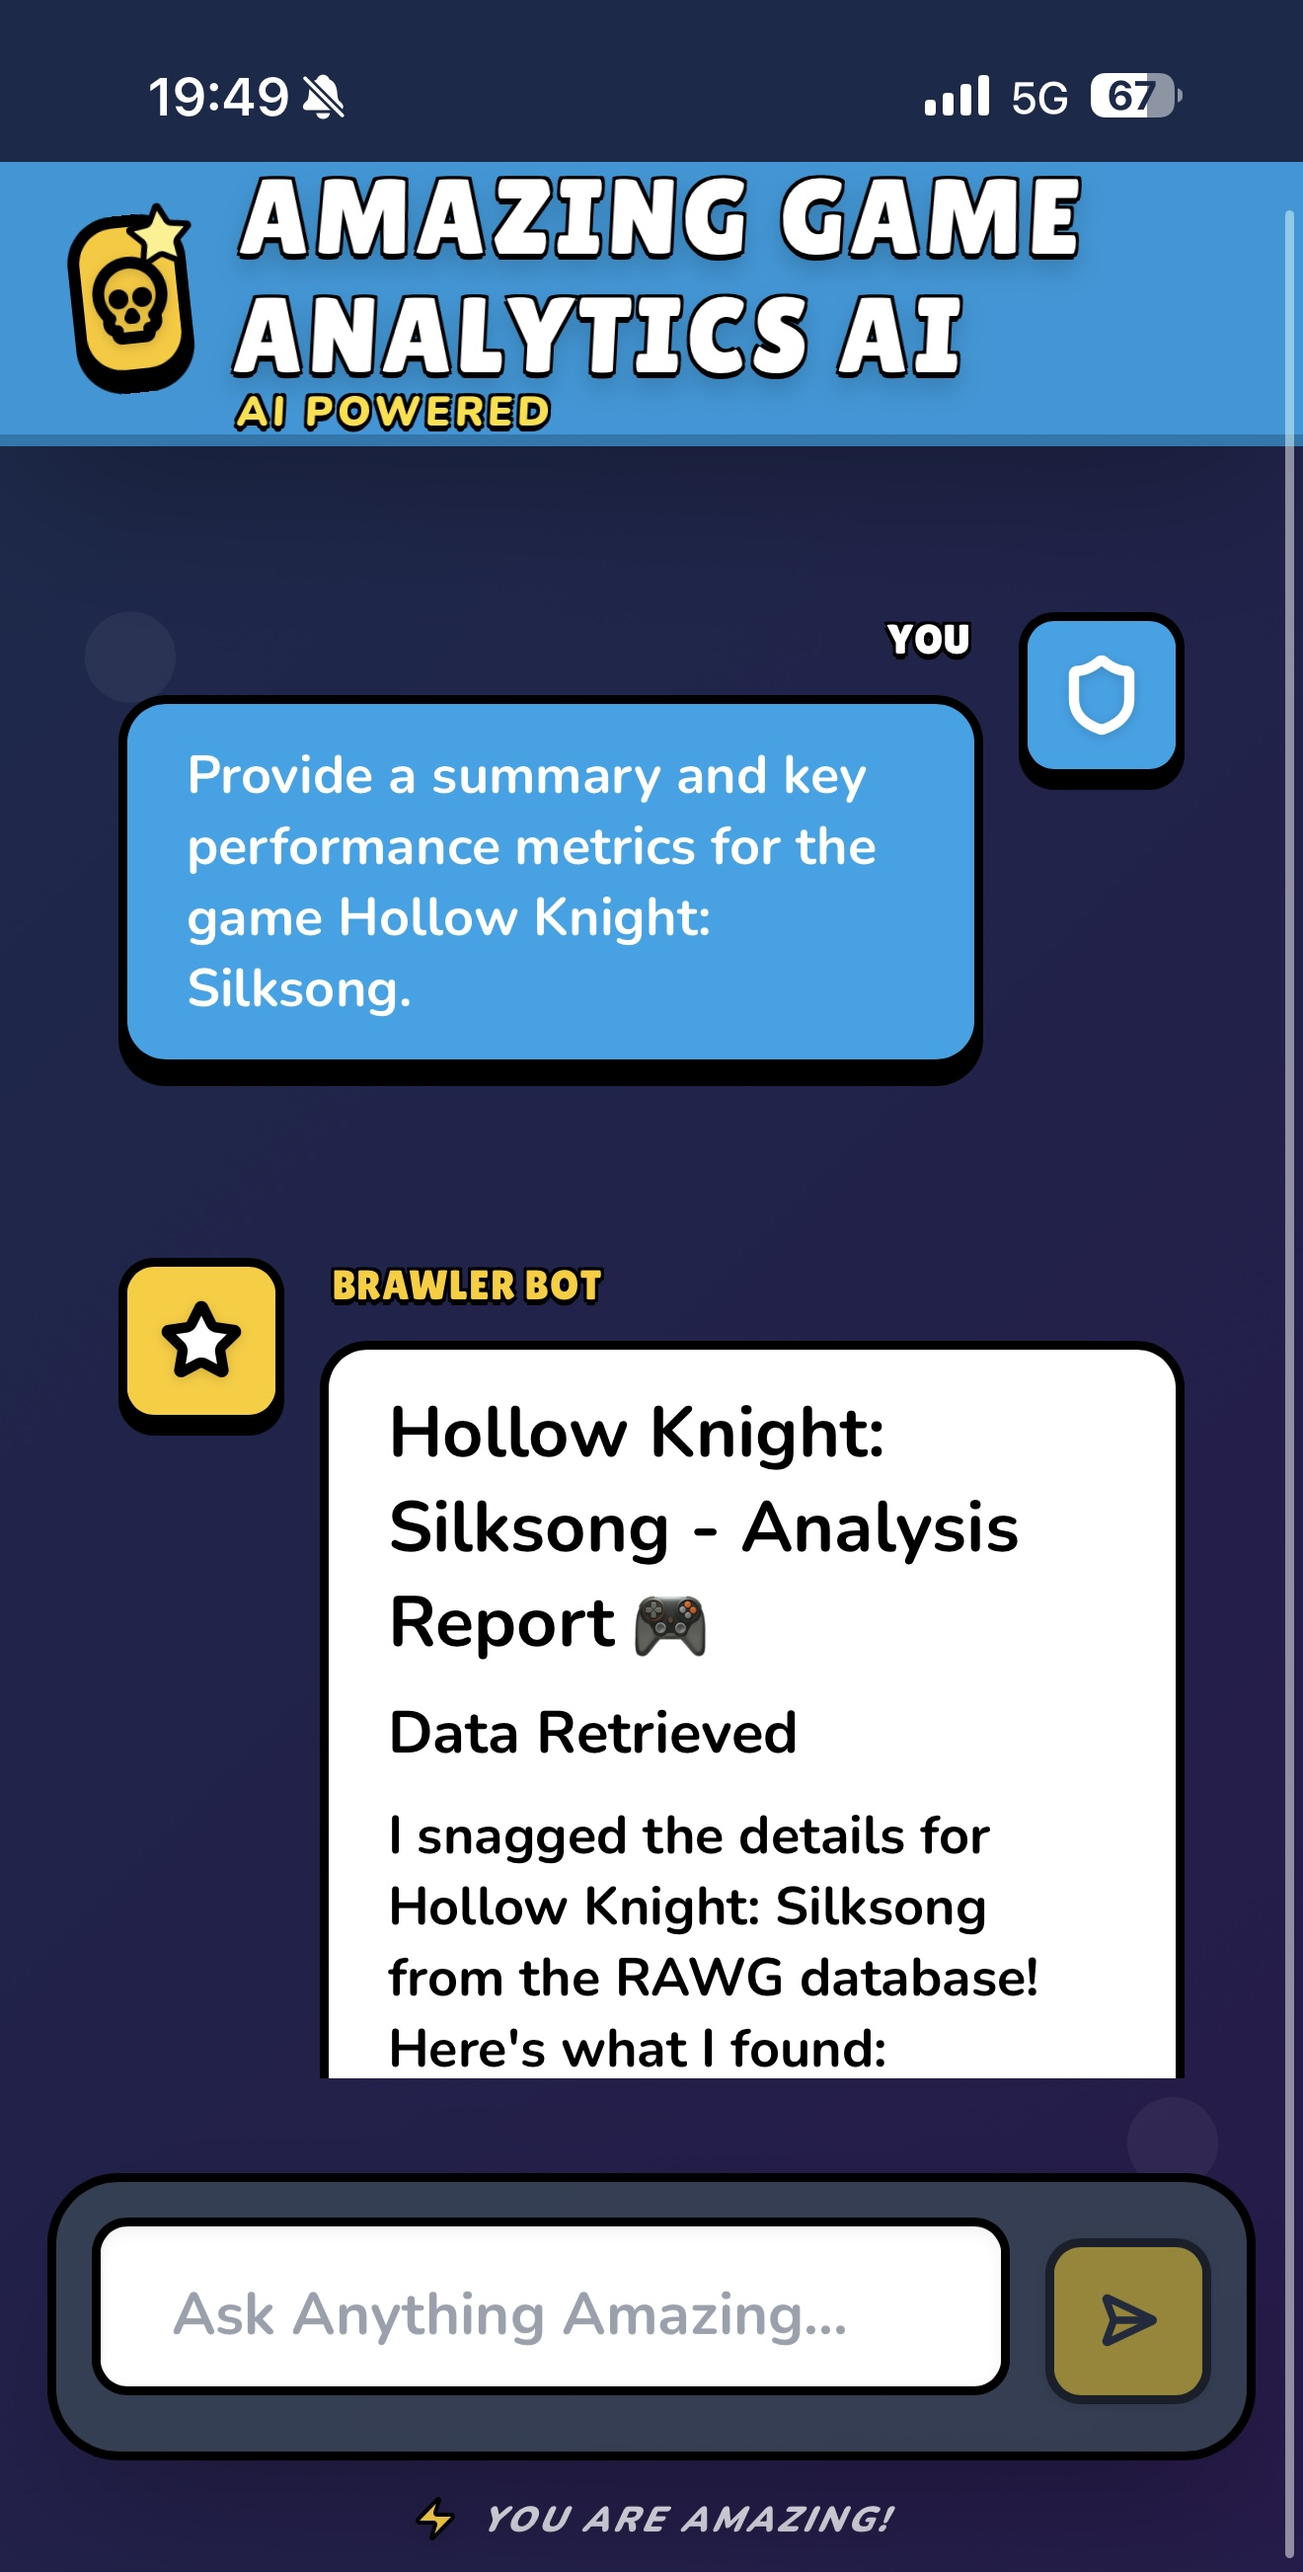
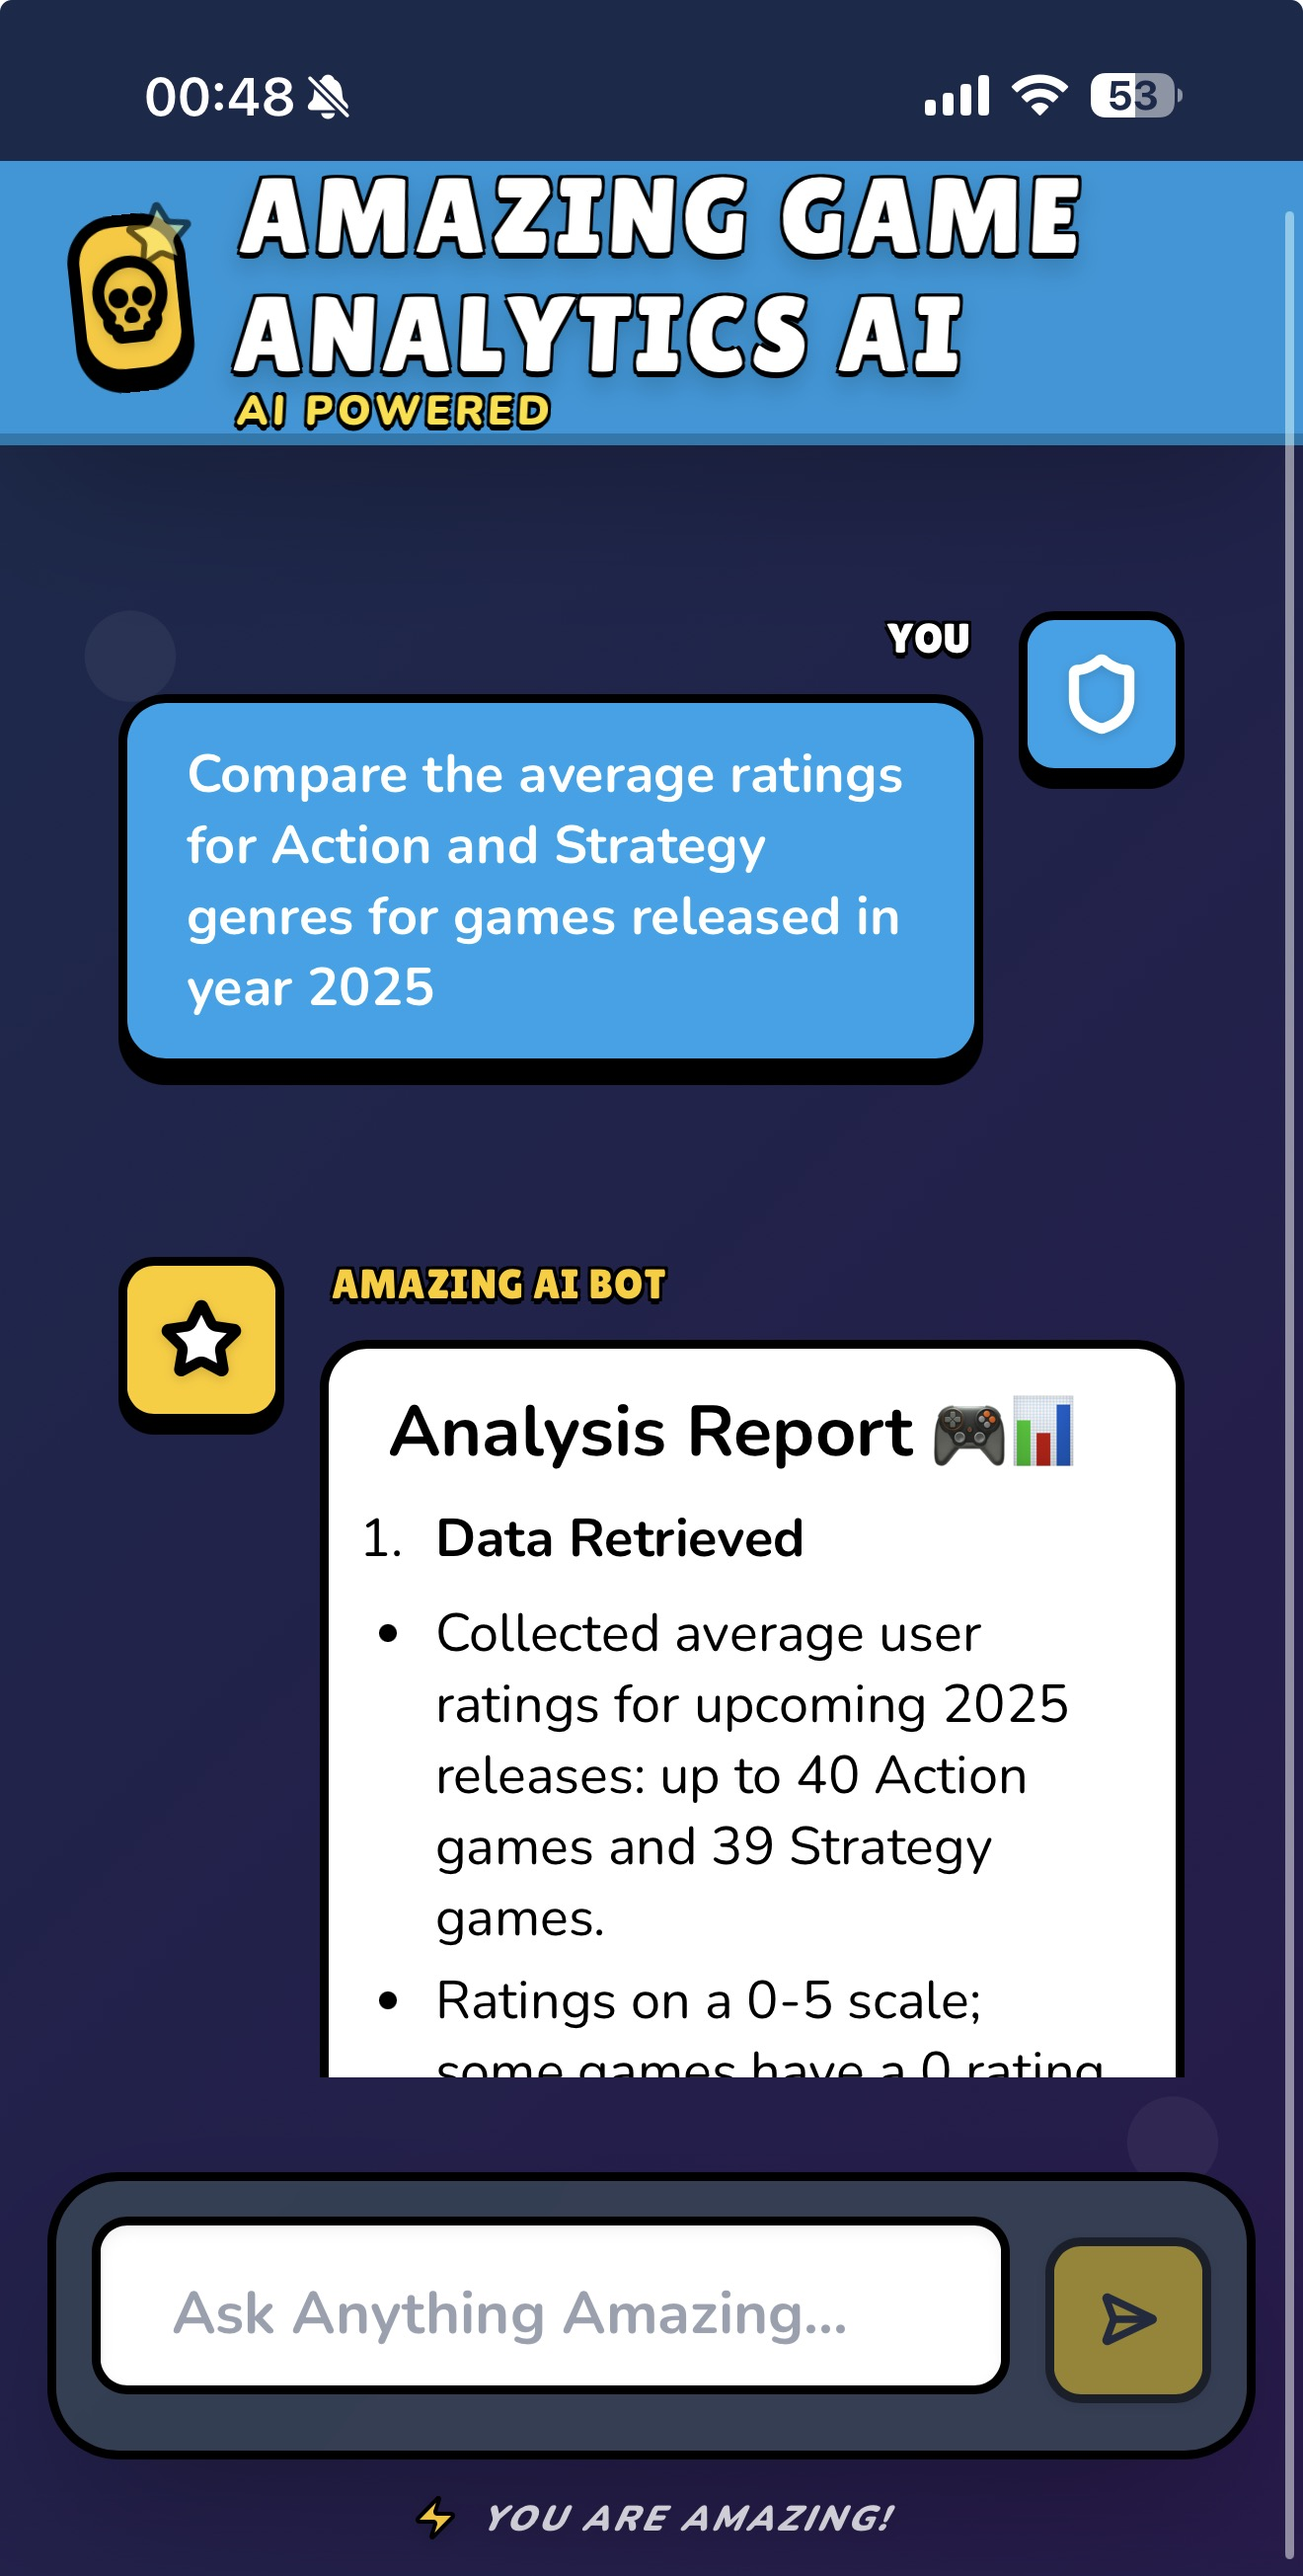
fix: improve markdown table rendering and add filters to suggestions

diff --git a/apps/frontend/src/client/components/chat/chat-list.tsx b/apps/frontend/src/client/components/chat/chat-list.tsx
@@ -16,29 +16,29 @@ interface ChatListProps {
 const SUGGESTIONS = [
   {
     icon: Trophy,
-    label: "Top Rated Games",
-    query: "What are the highest rated action games released in year 2025?",
+    label: "Top Rated Action",
+    query: "Show me action games with rating above 4.0 released in 2025 on PC platform with at least 100 reviews",
     bgColor: "bg-yellow-400",
     hoverColor: "group-hover:bg-yellow-300",
   },
   {
     icon: Star,
     label: "Genre Analysis",
-    query: "Compare the average ratings for Action and Strategy genres for games released in year 2025",
+    query: "Compare the average ratings for Action and Strategy genres for games released in 2025 on PC platform with at least 50 reviews",
     bgColor: "bg-cyan-400",
     hoverColor: "group-hover:bg-cyan-300",
   },
   {
     icon: Zap,
     label: "Game Analysis",
-    query: "Provide a summary and key performance metrics for the game Hollow Knight: Silksong.",
+    query: "Provide a summary and key performance metrics for the game Hollow Knight: Silksong",
     bgColor: "bg-purple-400",
     hoverColor: "group-hover:bg-purple-300",
   },
   {
     icon: Skull,
     label: "Game Discovery",
-    query: "Find popular action games with high ratings released from 2022 to 2025",
+    query: "Find action games with rating above 4.0 released from 2022 to 2025 on PC platform with at least 100 reviews",
     bgColor: "bg-emerald-400",
     hoverColor: "group-hover:bg-emerald-300",
   },

diff --git a/README.md b/README.md
@@ -35,7 +35,7 @@ Built as a monorepo with modular architecture: the frontend (Next.js React) hand
       <td align="center"><strong>Mobile View</strong></td>
     </tr>
     <tr>
-      <td align="center"><img src="web-amazing-game-analytics-ai.png" alt="Web view of Amazing Game Analytics AI" width="450" /></td>
+      <td align="center"><img src="web-amazing-game-analytics.png" alt="Web view of Amazing Game Analytics AI" width="450" /></td>
       <td align="center"><img src="mobile-amazing-game-analytics.jpeg" alt="Mobile view of Amazing Game Analytics AI" width="200" /></td>
     </tr>
   </table>
